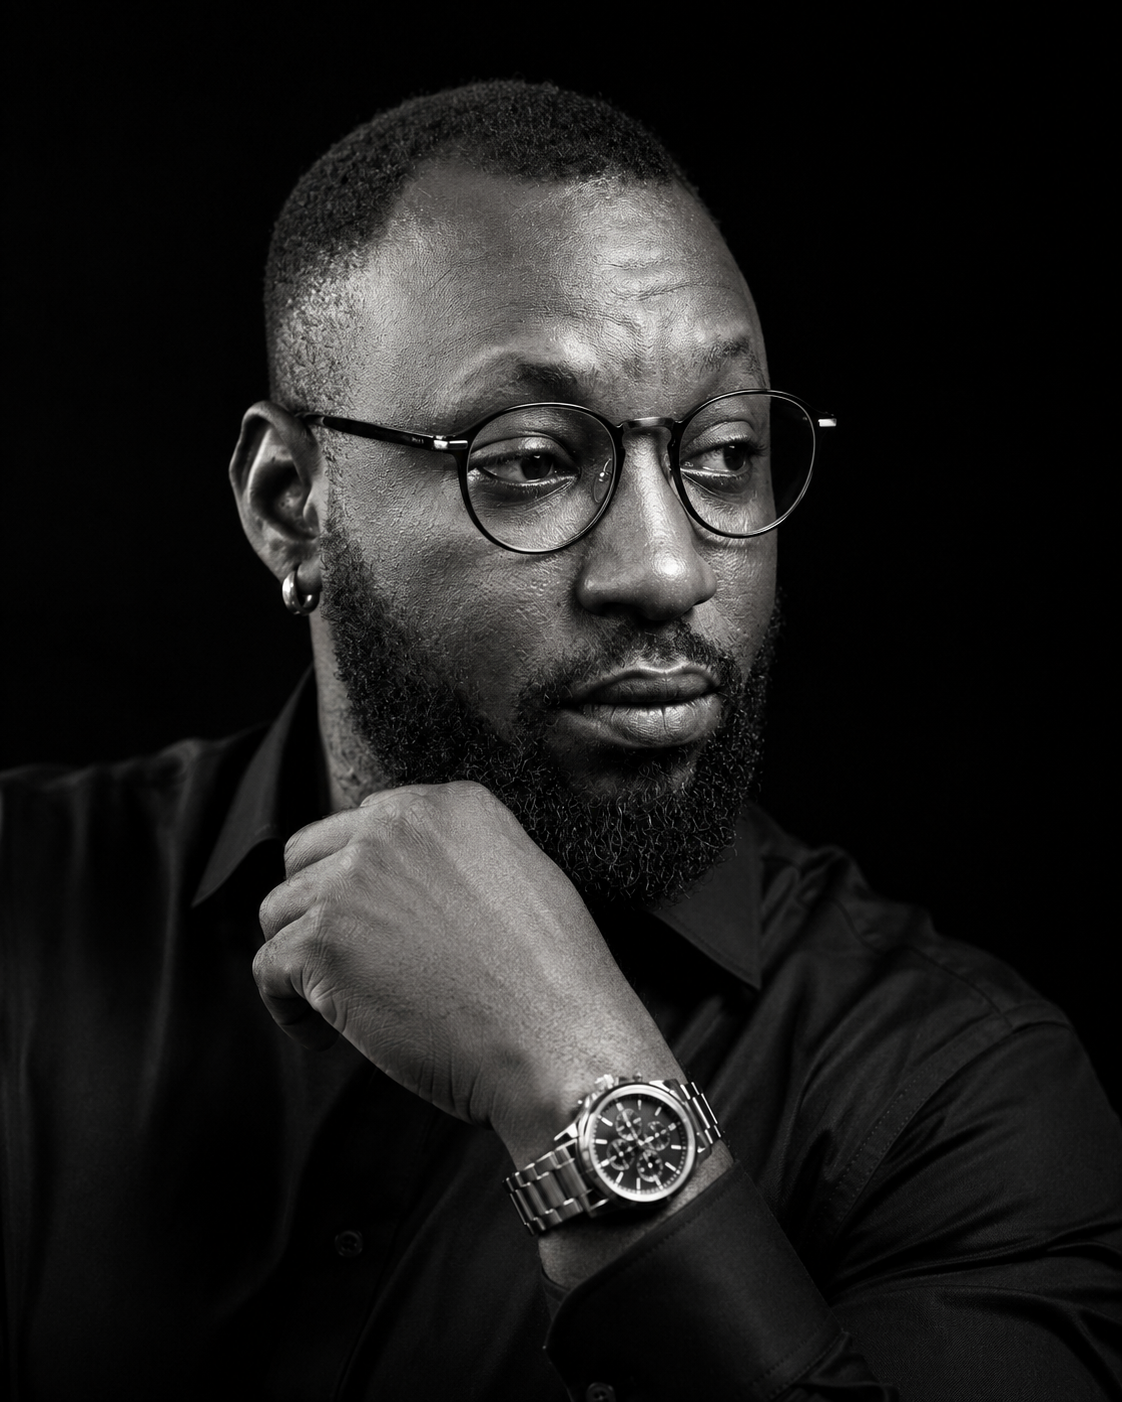
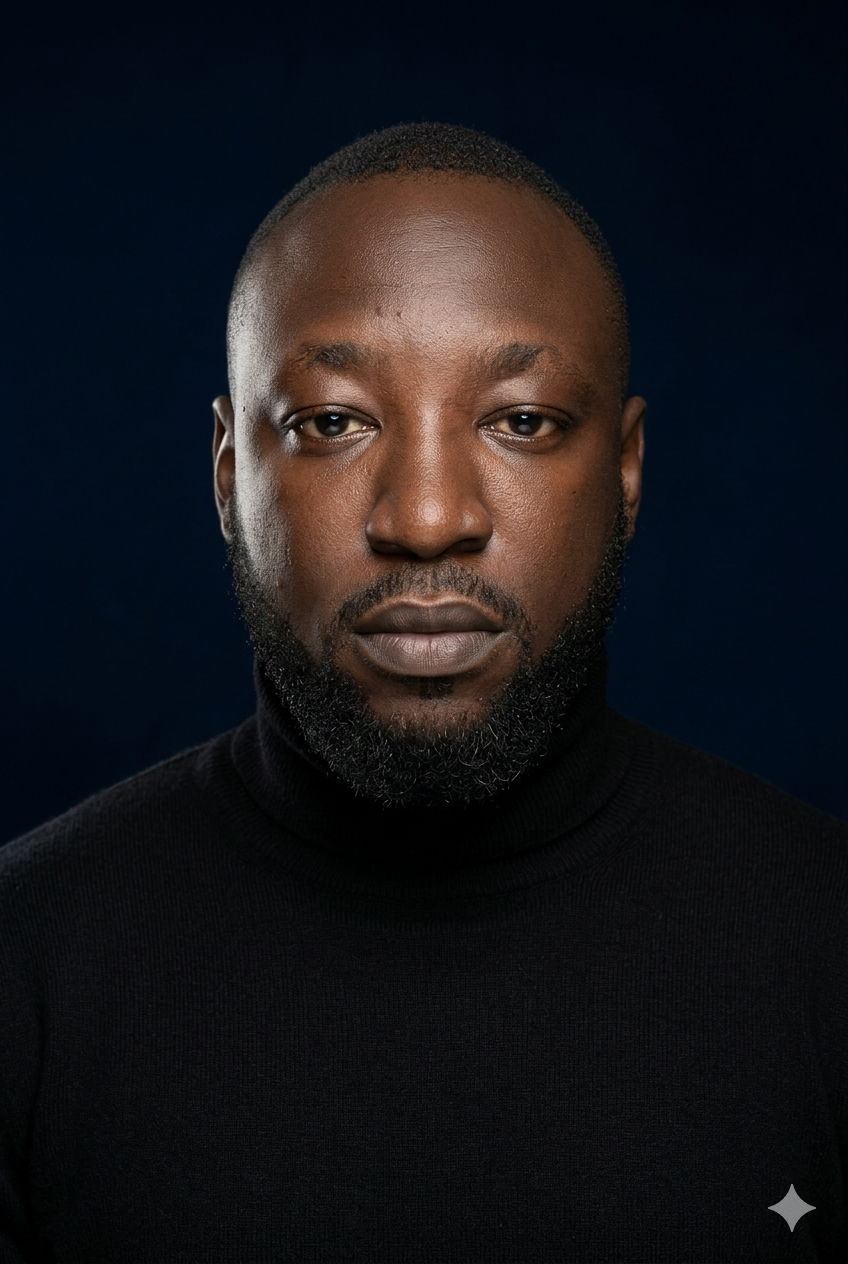
Update portrait image and replace tracks with 22 credited productions

diff --git a/index.html b/index.html
@@ -309,48 +309,145 @@ footer .socials a:hover{border-color:var(--crimson);color:var(--crimson)}
 <!-- TRACKS -->
 <section id="tracks">
   <div class="section-header reveal">
-    <div class="section-tag">The Sound</div>
+    <div class="section-tag">Discography</div>
     <h2 class="section-title">SELECTED <span style="color:var(--gold)">WORKS</span></h2>
     <div class="section-line"></div>
-    <p class="section-desc">A selection of productions and collaborations that define the RaptureBeatz sound.</p>
+    <p class="section-desc">Production, mixing, and mastering credits across Afrobeats, Gospel, Hip-Hop, and Contemporary African music.</p>
   </div>
   <div class="tracks-wrap reveal">
-    <div class="track-item" data-src="">
+
+    <a href="https://audiomack.com/officialhdot/song/gara" target="_blank" class="track-item" style="text-decoration:none;color:inherit">
       <div class="track-num">01</div>
-      <div class="track-info"><h4>Way Up</h4><span>RaptureBeatz · Afrosounds</span></div>
-      <button class="track-play" aria-label="Play">▶</button>
-      <div class="track-duration">—</div>
-    </div>
-    <div class="track-item" data-src="">
+      <div class="track-info"><h4>Gara</h4><span>HDot · My Vibe & I EP · Prod/Mix/Master</span></div>
+      <div class="track-play" style="pointer-events:none">▶</div>
+    </a>
+
+    <a href="https://audiomack.com/officialhdot/song/the-legend" target="_blank" class="track-item" style="text-decoration:none;color:inherit">
       <div class="track-num">02</div>
-      <div class="track-info"><h4>Follow Me</h4><span>RaptureBeatz · Afrobeats</span></div>
-      <button class="track-play" aria-label="Play">▶</button>
-      <div class="track-duration">—</div>
-    </div>
-    <div class="track-item" data-src="">
+      <div class="track-info"><h4>The Legend</h4><span>HDot · My Vibe & I EP · Prod/Mix/Master</span></div>
+      <div class="track-play" style="pointer-events:none">▶</div>
+    </a>
+
+    <a href="https://youtu.be/8KNSDLLxh60" target="_blank" class="track-item" style="text-decoration:none;color:inherit">
       <div class="track-num">03</div>
-      <div class="track-info"><h4>Kayzed — BAMISE</h4><span>Produced by RaptureBeatz</span></div>
-      <button class="track-play" aria-label="Play">▶</button>
-      <div class="track-duration">—</div>
-    </div>
-    <div class="track-item" data-src="">
+      <div class="track-info"><h4>Allahu</h4><span>Akobi Osupa · Kadara Album · Prod/Mix/Master</span></div>
+      <div class="track-play" style="pointer-events:none">▶</div>
+    </a>
+
+    <a href="https://youtu.be/i0Q_QhXBzyM" target="_blank" class="track-item" style="text-decoration:none;color:inherit">
       <div class="track-num">04</div>
-      <div class="track-info"><h4>Awani — HDOT</h4><span>Produced by RaptureBeatz</span></div>
-      <button class="track-play" aria-label="Play">▶</button>
-      <div class="track-duration">—</div>
-    </div>
-    <div class="track-item" data-src="">
+      <div class="track-info"><h4>Tribute (Oriyin)</h4><span>Akobi Osupa · Kadara Album · Prod/Mix/Master</span></div>
+      <div class="track-play" style="pointer-events:none">▶</div>
+    </a>
+
+    <a href="https://youtu.be/DugSV0-2lb4" target="_blank" class="track-item" style="text-decoration:none;color:inherit">
       <div class="track-num">05</div>
-      <div class="track-info"><h4>No Days Off — Spade</h4><span>Produced by RaptureBeatz</span></div>
-      <button class="track-play" aria-label="Play">▶</button>
-      <div class="track-duration">—</div>
-    </div>
-    <div class="track-item" data-src="">
+      <div class="track-info"><h4>Truth</h4><span>Akobi Osupa · Kadara Album · Prod/Mix/Master</span></div>
+      <div class="track-play" style="pointer-events:none">▶</div>
+    </a>
+
+    <a href="https://youtu.be/Z2BTSpbE7BE" target="_blank" class="track-item" style="text-decoration:none;color:inherit">
       <div class="track-num">06</div>
-      <div class="track-info"><h4>Lowkey</h4><span>RaptureBeatz · Original</span></div>
-      <button class="track-play" aria-label="Play">▶</button>
-      <div class="track-duration">—</div>
-    </div>
+      <div class="track-info"><h4>Ifẹ Oluwa</h4><span>Akobi Osupa · Kadara Album · Prod/Mix/Master</span></div>
+      <div class="track-play" style="pointer-events:none">▶</div>
+    </a>
+
+    <a href="https://youtu.be/SPvfUMpRYVY" target="_blank" class="track-item" style="text-decoration:none;color:inherit">
+      <div class="track-num">07</div>
+      <div class="track-info"><h4>Kadara</h4><span>Akobi Osupa · Kadara Album · Prod/Mix/Master</span></div>
+      <div class="track-play" style="pointer-events:none">▶</div>
+    </a>
+
+    <a href="https://youtu.be/jSen4o-boJE" target="_blank" class="track-item" style="text-decoration:none;color:inherit">
+      <div class="track-num">08</div>
+      <div class="track-info"><h4>Deceit</h4><span>Akobi Osupa · Kadara Album · Prod/Mix/Master</span></div>
+      <div class="track-play" style="pointer-events:none">▶</div>
+    </a>
+
+    <a href="https://youtu.be/GdvX588p3MI" target="_blank" class="track-item" style="text-decoration:none;color:inherit">
+      <div class="track-num">09</div>
+      <div class="track-info"><h4>Ajitu</h4><span>Dewboy · Prod/Mix/Master</span></div>
+      <div class="track-play" style="pointer-events:none">▶</div>
+    </a>
+
+    <a href="https://youtu.be/VhGs4NXvkdI" target="_blank" class="track-item" style="text-decoration:none;color:inherit">
+      <div class="track-num">10</div>
+      <div class="track-info"><h4>Iron Fist</h4><span>Dewboy · Prod/Mix/Master</span></div>
+      <div class="track-play" style="pointer-events:none">▶</div>
+    </a>
+
+    <a href="https://youtu.be/PR21okpDWyM" target="_blank" class="track-item" style="text-decoration:none;color:inherit">
+      <div class="track-num">11</div>
+      <div class="track-info"><h4>Blessings</h4><span>Dewboy · Prod/Mix/Master</span></div>
+      <div class="track-play" style="pointer-events:none">▶</div>
+    </a>
+
+    <a href="https://youtu.be/n0E_rV9c86Q" target="_blank" class="track-item" style="text-decoration:none;color:inherit">
+      <div class="track-num">12</div>
+      <div class="track-info"><h4>Apata</h4><span>Scott Martins · Rock EP · Producer</span></div>
+      <div class="track-play" style="pointer-events:none">▶</div>
+    </a>
+
+    <a href="https://youtu.be/40pWOVu6l-Q" target="_blank" class="track-item" style="text-decoration:none;color:inherit">
+      <div class="track-num">13</div>
+      <div class="track-info"><h4>Kirakita</h4><span>Scott Martins · Rock EP · Producer</span></div>
+      <div class="track-play" style="pointer-events:none">▶</div>
+    </a>
+
+    <a href="https://youtu.be/Prp-94C_m6c" target="_blank" class="track-item" style="text-decoration:none;color:inherit">
+      <div class="track-num">14</div>
+      <div class="track-info"><h4>Baby Girl</h4><span>Scott Martins · Rock EP · Producer</span></div>
+      <div class="track-play" style="pointer-events:none">▶</div>
+    </a>
+
+    <a href="https://youtu.be/nsWLLL2daCs" target="_blank" class="track-item" style="text-decoration:none;color:inherit">
+      <div class="track-num">15</div>
+      <div class="track-info"><h4>Shonba</h4><span>Scott Martins · Rock EP · Producer</span></div>
+      <div class="track-play" style="pointer-events:none">▶</div>
+    </a>
+
+    <a href="https://youtu.be/RCXZzyrSYP8" target="_blank" class="track-item" style="text-decoration:none;color:inherit">
+      <div class="track-num">16</div>
+      <div class="track-info"><h4>Way Back</h4><span>Scott Martins · Rock EP · Producer</span></div>
+      <div class="track-play" style="pointer-events:none">▶</div>
+    </a>
+
+    <a href="https://youtu.be/fcgtSNlYBvw" target="_blank" class="track-item" style="text-decoration:none;color:inherit">
+      <div class="track-num">17</div>
+      <div class="track-info"><h4>Ouuh Yea</h4><span>Ma Rio · Prod/Mix/Master</span></div>
+      <div class="track-play" style="pointer-events:none">▶</div>
+    </a>
+
+    <a href="https://youtu.be/3Q2aCjFCBHM" target="_blank" class="track-item" style="text-decoration:none;color:inherit">
+      <div class="track-num">18</div>
+      <div class="track-info"><h4>Bad Energy</h4><span>Mr Deluxe · Priceless EP · Prod/Mix/Master</span></div>
+      <div class="track-play" style="pointer-events:none">▶</div>
+    </a>
+
+    <a href="https://youtu.be/ZjoO4MqNANQ" target="_blank" class="track-item" style="text-decoration:none;color:inherit">
+      <div class="track-num">19</div>
+      <div class="track-info"><h4>Faraway</h4><span>Mr Deluxe · Priceless EP · Prod/Mix/Master</span></div>
+      <div class="track-play" style="pointer-events:none">▶</div>
+    </a>
+
+    <a href="https://youtu.be/tIUflTGNITM" target="_blank" class="track-item" style="text-decoration:none;color:inherit">
+      <div class="track-num">20</div>
+      <div class="track-info"><h4>Kijipaya</h4><span>Mr Deluxe · Priceless EP · Prod/Mix/Master</span></div>
+      <div class="track-play" style="pointer-events:none">▶</div>
+    </a>
+
+    <a href="https://youtu.be/-jeF-4zKSRg" target="_blank" class="track-item" style="text-decoration:none;color:inherit">
+      <div class="track-num">21</div>
+      <div class="track-info"><h4>Shadow</h4><span>Mr Deluxe · Priceless EP · Prod/Mix/Master</span></div>
+      <div class="track-play" style="pointer-events:none">▶</div>
+    </a>
+
+    <a href="https://youtu.be/KsxOENjEwDw" target="_blank" class="track-item" style="text-decoration:none;color:inherit">
+      <div class="track-num">22</div>
+      <div class="track-info"><h4>Suru Lere</h4><span>Mr Deluxe · Priceless EP · Prod/Mix/Master</span></div>
+      <div class="track-play" style="pointer-events:none">▶</div>
+    </a>
+
   </div>
 </section>
 
